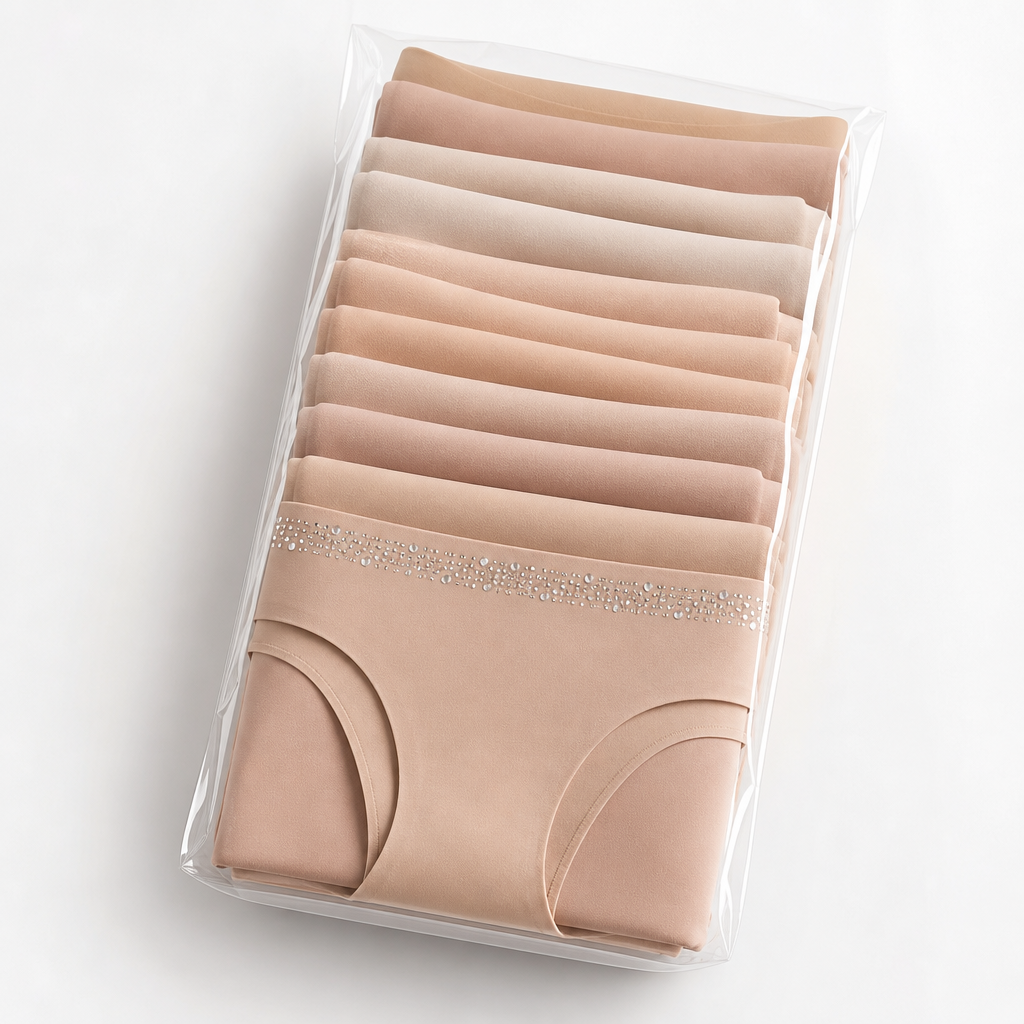
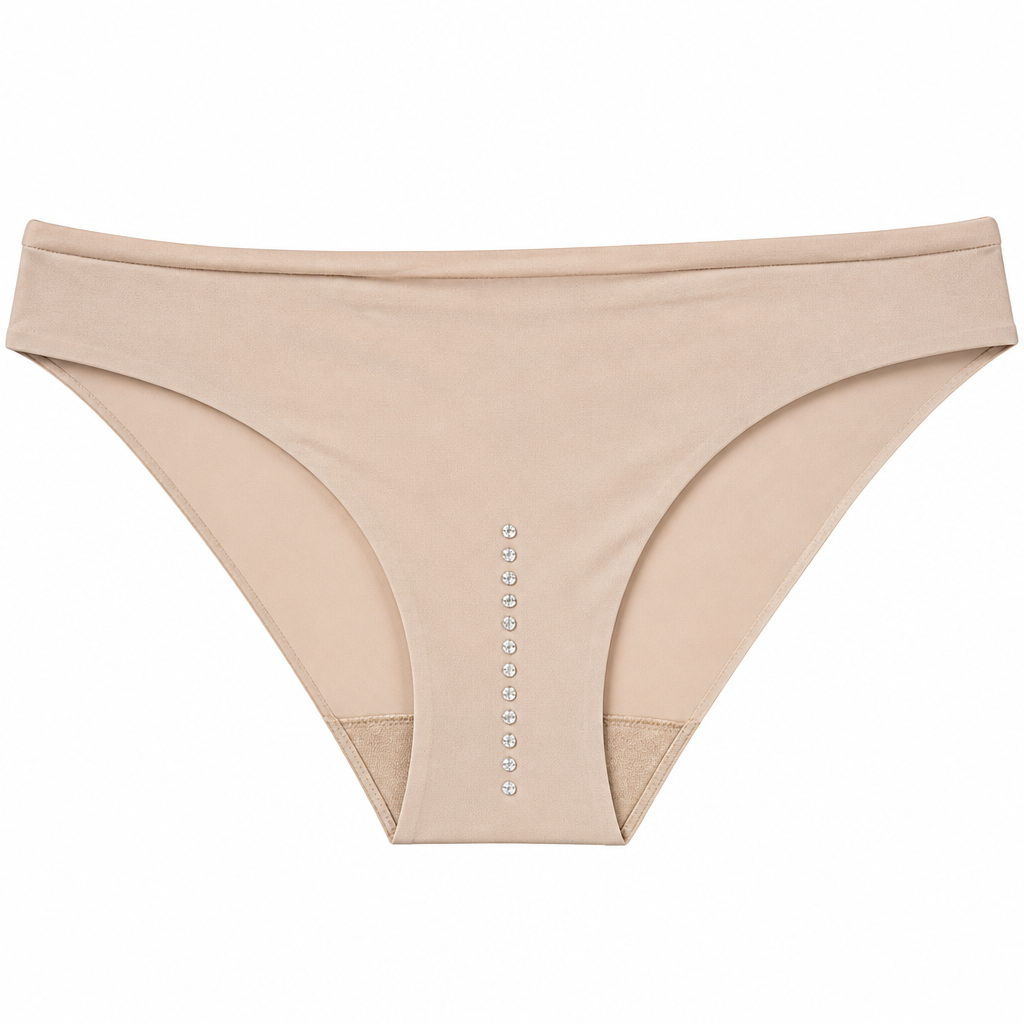
Update jewel and jiller panty photos to market-accurate product shots.

diff --git a/seed.py b/seed.py
@@ -7,8 +7,8 @@ SAMPLE_PRODUCTS = [
         "price": 30000,
         "stock": 50,
         "category": "세트",
-        "color": "누드/베이지",
-        "description": "다낭에서 고른 보석팬티 10개 세트. 반짝이는 포인트와 부드러운 착용감으로 데일리·선물용으로 인기입니다.",
+        "color": "누드베이지",
+        "description": "다낭 한시장에서 유명한 보석팬티 10개 세트. 가운데 큐빅(보석) 포인트가 있는 심리스 스타일로, 데일리·선물용으로 많이 찾습니다.",
         "sizes": "FREE",
         "image_url": "",
         "image_path": "uploads/jewel-panty-set.jpg",
@@ -20,16 +20,14 @@ SAMPLE_PRODUCTS = [
         "price": 35000,
         "stock": 50,
         "category": "세트",
-        "color": "누드/아이보리/핑크",
-        "description": "다낭 한시장에서 유명한 질러팬티 10개 세트. 심리스에 가까운 편안한 착용감으로 매일 입기 좋습니다.",
+        "color": "누드/핑크",
+        "description": "다낭·나트랑 시장에서 인기인 질러팬티 10개 세트. 안 입은 듯 부드러운 아이스실크 심리스로, 걸이형 낱장·세트 구성입니다.",
         "sizes": "FREE",
         "image_url": "",
         "image_path": "uploads/jiller-panty-set.jpg",
         "channel_note": "질러팬티",
     },
 ]
-
-CATALOG_VERSION = "jewel-jiller-v2"
 
 
 def _needs_catalog_refresh() -> bool:
@@ -39,7 +37,11 @@ def _needs_catalog_refresh() -> bool:
         p = Product.query.filter_by(slug=item["slug"]).first()
         if not p:
             return True
-        if p.image_path != item.get("image_path", "") or p.price != item["price"]:
+        if (
+            p.image_path != item.get("image_path", "")
+            or p.price != item["price"]
+            or p.description != item["description"]
+        ):
             return True
     return False
 
